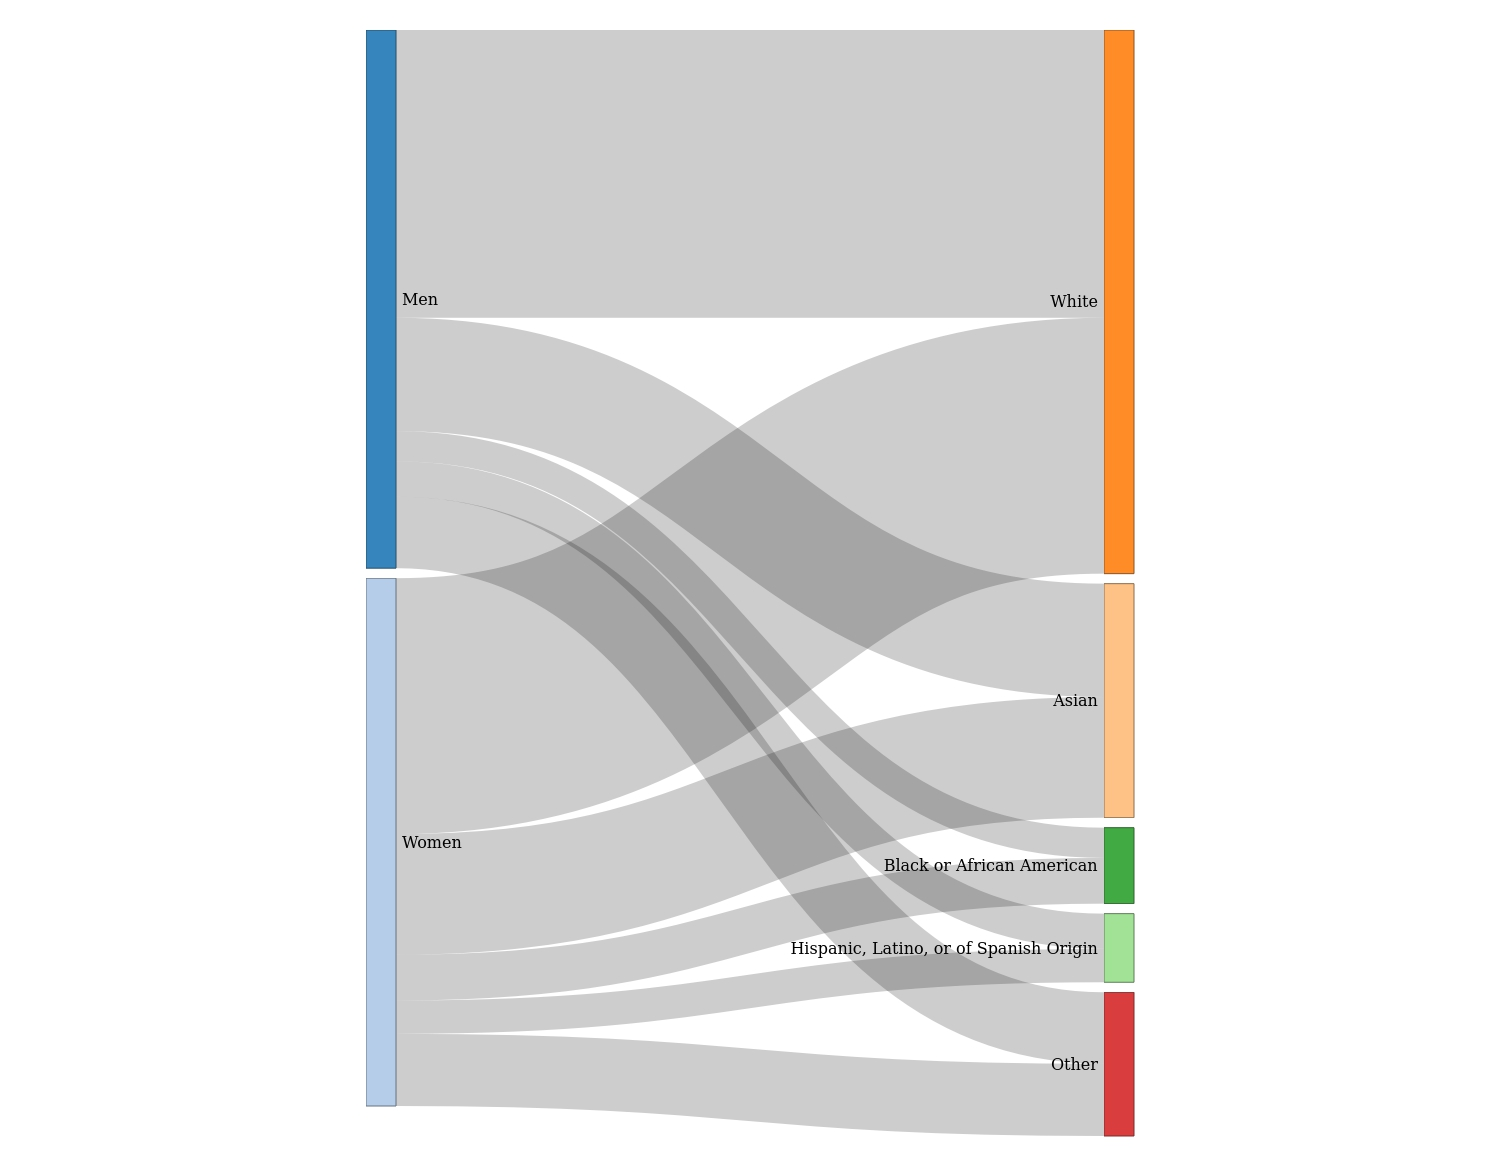
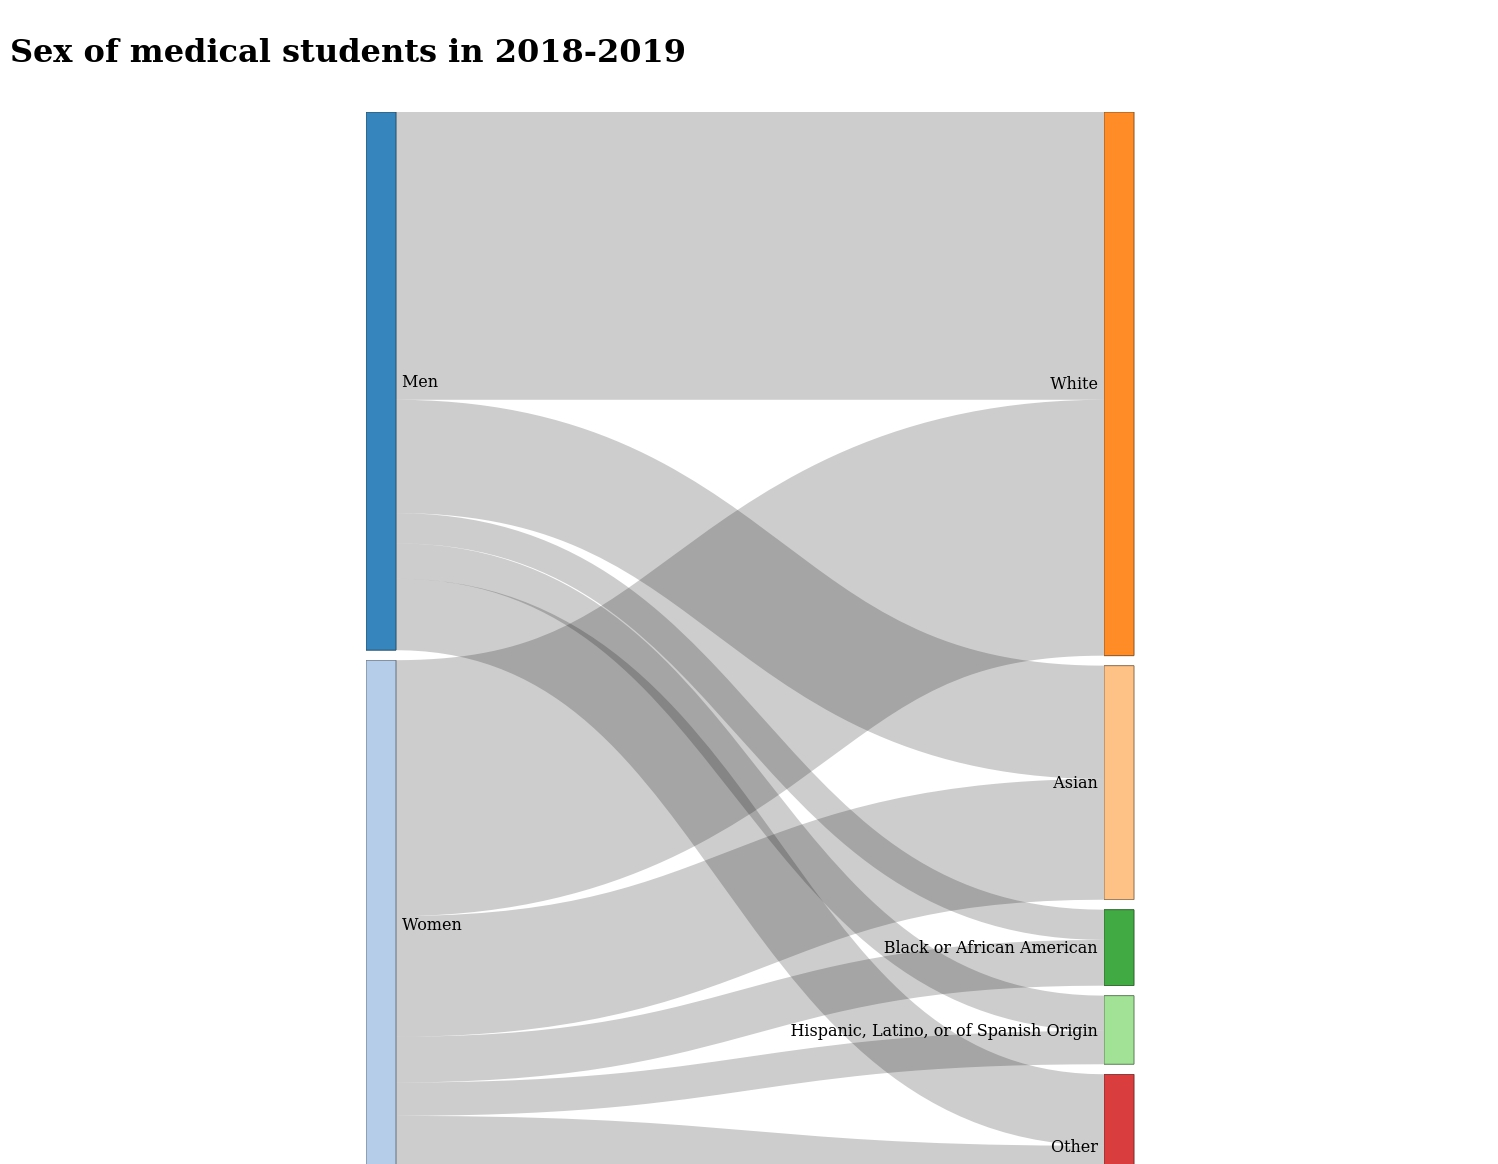
Annotation on sankey

diff --git a/assets/vis2_census_sankey.html b/assets/vis2_census_sankey.html
@@ -10,9 +10,9 @@
 </head>
 <body style="background-color:white;">
 <div id="htmlwidget_container">
-  <div id="htmlwidget-50c2c88c0801db40fdc4" style="width:960px;height:500px;" class="sankeyNetwork html-widget"></div>
+  <div id="htmlwidget-1cef7609b581a50bcf87" style="width:960px;height:500px;" class="sankeyNetwork html-widget"></div>
 </div>
-<script type="application/json" data-for="htmlwidget-50c2c88c0801db40fdc4">{"x":{"links":{"source":[0,0,0,0,0,1,1,1,1,1],"target":[2,3,4,5,6,2,3,4,5,6],"value":[97017621,6969823,18068911,25618800,4106171,100301335,7691693,19853611,24858794,4258779]},"nodes":{"name":["Men","Women","White","Asian","Black or African American","Hispanic, Latino, or of Spanish Origin","Other"],"group":["Men","Women","White","Asian","Black or African American","Hispanic, Latino, or of Spanish Origin","Other"]},"options":{"NodeID":"name","NodeGroup":"name","LinkGroup":null,"colourScale":"d3.scaleOrdinal(d3.schemeCategory20);","fontSize":16,"fontFamily":null,"nodeWidth":30,"nodePadding":10,"units":"American residents","margin":{"top":null,"right":null,"bottom":null,"left":null},"iterations":0,"sinksRight":true}},"evals":[],"jsHooks":[]}</script>
-<script type="application/htmlwidget-sizing" data-for="htmlwidget-50c2c88c0801db40fdc4">{"viewer":{"width":450,"height":350,"padding":10,"fill":true},"browser":{"width":960,"height":500,"padding":10,"fill":true}}</script>
+<script type="application/json" data-for="htmlwidget-1cef7609b581a50bcf87">{"x":{"links":{"source":[0,0,0,0,0,1,1,1,1,1],"target":[2,3,4,5,6,2,3,4,5,6],"value":[97017621,6969823,18068911,25618800,4106171,100301335,7691693,19853611,24858794,4258779]},"nodes":{"name":["Men","Women","White","Asian","Black or African American","Hispanic, Latino, or of Spanish Origin","Other"],"group":["Men","Women","White","Asian","Black or African American","Hispanic, Latino, or of Spanish Origin","Other"]},"options":{"NodeID":"name","NodeGroup":"name","LinkGroup":null,"colourScale":"d3.scaleOrdinal(d3.schemeCategory20);","fontSize":16,"fontFamily":null,"nodeWidth":30,"nodePadding":10,"units":"American residents","margin":{"top":null,"right":null,"bottom":null,"left":null},"iterations":0,"sinksRight":true}},"evals":[],"jsHooks":[]}</script>
+<script type="application/htmlwidget-sizing" data-for="htmlwidget-1cef7609b581a50bcf87">{"viewer":{"width":450,"height":350,"padding":10,"fill":true},"browser":{"width":960,"height":500,"padding":10,"fill":true}}</script>
 </body>
 </html>

diff --git a/assets/vis2_sex_sankey.html b/assets/vis2_sex_sankey.html
@@ -10,9 +10,10 @@
 </head>
 <body style="background-color:white;">
 <div id="htmlwidget_container">
-  <div id="htmlwidget-fbae361b6085c89969bd" style="width:960px;height:500px;" class="sankeyNetwork html-widget"></div>
+  <h1>Sex of medical students in 2018-2019</h1>
+  <div id="htmlwidget-d11a4646598c560864c4" style="width:960px;height:500px;" class="sankeyNetwork html-widget"></div>
 </div>
-<script type="application/json" data-for="htmlwidget-fbae361b6085c89969bd">{"x":{"links":{"source":[0,0,0,0,0,1,1,1,1,1],"target":[3,4,5,2,6,3,4,5,2,6],"value":[9715,2588,3024,24665,6135,10344,3922,2856,21932,6185]},"nodes":{"name":["Men","Women","White","Asian","Black or African American","Hispanic, Latino, or of Spanish Origin","Other"],"group":["Men","Women","White","Asian","Black or African American","Hispanic, Latino, or of Spanish Origin","Other"]},"options":{"NodeID":"name","NodeGroup":"name","LinkGroup":null,"colourScale":"d3.scaleOrdinal(d3.schemeCategory20);","fontSize":16,"fontFamily":null,"nodeWidth":30,"nodePadding":10,"units":"enrolled students","margin":{"top":null,"right":null,"bottom":null,"left":null},"iterations":0,"sinksRight":true}},"evals":[],"jsHooks":[]}</script>
-<script type="application/htmlwidget-sizing" data-for="htmlwidget-fbae361b6085c89969bd">{"viewer":{"width":450,"height":350,"padding":10,"fill":true},"browser":{"width":960,"height":500,"padding":10,"fill":true}}</script>
+<script type="application/json" data-for="htmlwidget-d11a4646598c560864c4">{"x":{"links":{"source":[0,0,0,0,0,1,1,1,1,1],"target":[3,4,5,2,6,3,4,5,2,6],"value":[9715,2588,3024,24665,6135,10344,3922,2856,21932,6185]},"nodes":{"name":["Men","Women","White","Asian","Black or African American","Hispanic, Latino, or of Spanish Origin","Other"],"group":["Men","Women","White","Asian","Black or African American","Hispanic, Latino, or of Spanish Origin","Other"]},"options":{"NodeID":"name","NodeGroup":"name","LinkGroup":null,"colourScale":"d3.scaleOrdinal(d3.schemeCategory20);","fontSize":16,"fontFamily":null,"nodeWidth":30,"nodePadding":10,"units":"enrolled students","margin":{"top":null,"right":null,"bottom":null,"left":null},"iterations":0,"sinksRight":true}},"evals":[],"jsHooks":[]}</script>
+<script type="application/htmlwidget-sizing" data-for="htmlwidget-d11a4646598c560864c4">{"viewer":{"width":450,"height":350,"padding":10,"fill":true},"browser":{"width":960,"height":500,"padding":10,"fill":true}}</script>
 </body>
 </html>
